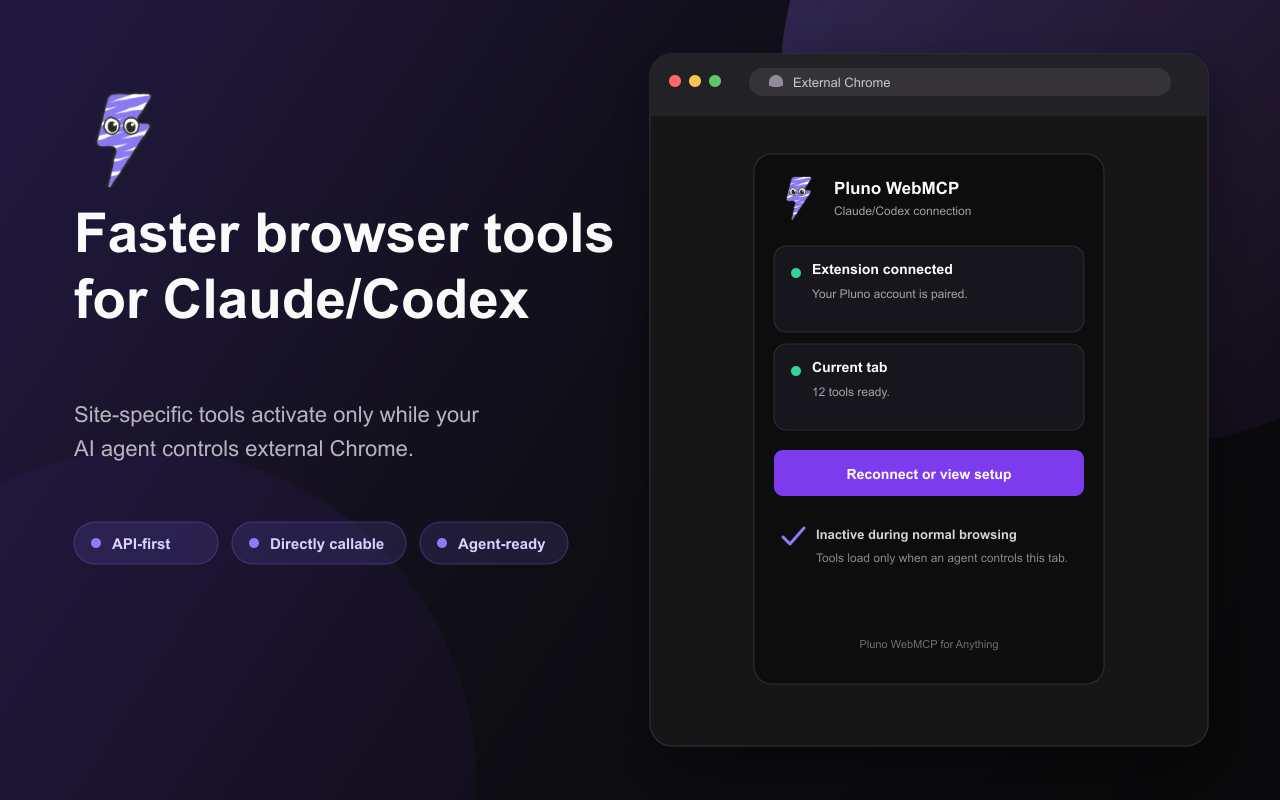
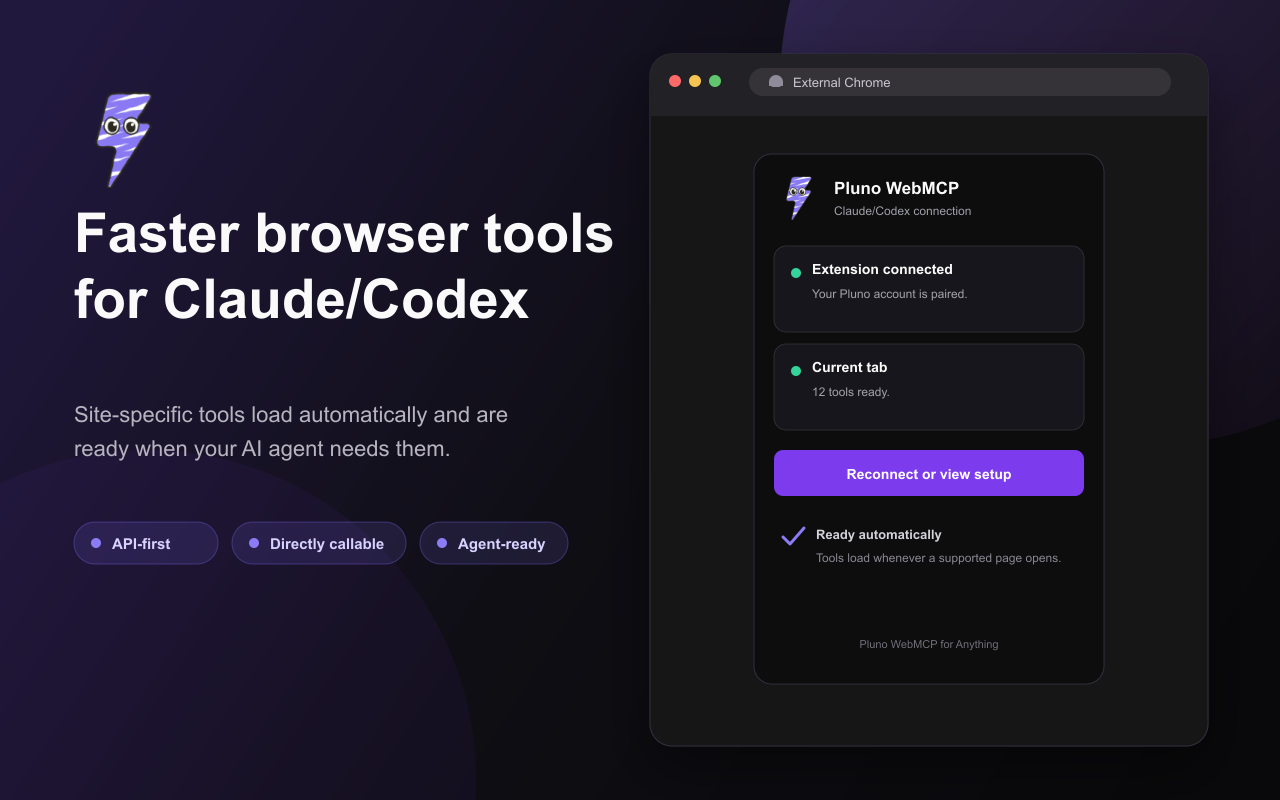
Inject WebMCP tools automatically

Changed region(s): [[0.0625, 0.5, 0.4062, 0.5938], [0.625, 0.6562, 0.8125, 0.7188]]

diff --git a/extension/service-worker.js b/extension/service-worker.js
@@ -6,17 +6,22 @@ const SETUP_ERROR = "Extension setup is incomplete.";
 const tabState = new Map();
 
 chrome.runtime.onInstalled.addListener(async ({ reason }) => {
-  if (reason !== "install") return;
-  await openSetup();
+  if (reason === "install") {
+    await openSetup();
+    return;
+  }
+  await activateOpenTabs();
 });
+
+chrome.runtime.onStartup.addListener(activateOpenTabs);
 
 chrome.alarms.onAlarm.addListener(async ({ name }) => {
   if (name === PAIRING_ALARM) await exchangePairing();
 });
 
 chrome.runtime.onMessage.addListener((message, sender, sendResponse) => {
-  if (message?.type === "WEBMCP_CHECK_DEBUGGER" && sender.tab?.id !== undefined) {
-    checkDebuggerActivity(sender.tab.id, message.pageUrl).then(sendResponse);
+  if (message?.type === "WEBMCP_ACTIVATE_PAGE" && sender.tab?.id !== undefined) {
+    activatePage(sender.tab.id, message.pageUrl).then(() => sendResponse({ activated: true }));
     return true;
   }
   if (message?.type === "WEBMCP_GET_STATUS") {
@@ -32,41 +37,21 @@ chrome.runtime.onMessage.addListener((message, sender, sendResponse) => {
 
 chrome.tabs.onRemoved.addListener((tabId) => tabState.delete(tabId));
 
-async function checkDebuggerActivity(tabId, pageUrl) {
+async function activatePage(tabId, pageUrl) {
   if (pageUrl.startsWith(`${API_ORIGIN}/webmcp/signup`)) await exchangePairing();
-  const targets = await chrome.debugger.getTargets();
-  const attachedTabIds = getAttachedTabIds(targets);
-  const attachedTabIdSet = new Set(attachedTabIds);
-  for (const [knownTabId, state] of tabState) {
-    if (!attachedTabIdSet.has(knownTabId)) {
-      tabState.set(knownTabId, { ...state, active: false });
-    }
-  }
-  await Promise.all(
-    attachedTabIds.map(async (attachedTabId) => {
-      const attachedPageUrl =
-        attachedTabId === tabId
-          ? pageUrl
-          : await chrome.tabs.get(attachedTabId).then((tab) => tab.url).catch(() => undefined);
-      if (attachedPageUrl) await activateAttachedTab(attachedTabId, attachedPageUrl);
-    }),
-  );
-  return { active: attachedTabIdSet.has(tabId) };
-}
-
-async function activateAttachedTab(tabId, pageUrl) {
   const previous = tabState.get(tabId) ?? {
-    active: false,
+    revision: 0,
     url: null,
     toolNames: [],
     loaded: false,
     injecting: false,
     lastError: null,
   };
+  const revision = previous.revision + 1;
   if (!isSupportedPageUrl(pageUrl)) {
     tabState.set(tabId, {
       ...previous,
-      active: true,
+      revision,
       url: pageUrl,
       toolNames: [],
       loaded: false,
@@ -75,18 +60,15 @@ async function activateAttachedTab(tabId, pageUrl) {
     });
     return;
   }
-  tabState.set(tabId, { ...previous, active: true, url: pageUrl });
+  tabState.set(tabId, { ...previous, revision, url: pageUrl, injecting: true, lastError: null });
 
-  if (
-    !previous.injecting &&
-    (previous.url !== pageUrl || !previous.loaded)
-  ) {
-    activateTab(tabId, pageUrl, previous.url !== pageUrl ? previous.toolNames : []).catch(async () => {
+  activateTab(tabId, pageUrl, previous.url !== pageUrl ? previous.toolNames : [], revision).catch(async () => {
+    if (tabState.get(tabId)?.revision === revision) {
       const current = tabState.get(tabId) ?? previous;
       tabState.set(tabId, { ...current, injecting: false, loaded: false, lastError: "Tool injection failed." });
       await logPageError(tabId, "Pluno WebMCP could not inject tools.");
-    });
-  }
+    }
+  });
 }
 
 function isSupportedPageUrl(pageUrl) {
@@ -102,38 +84,30 @@ function isLocalHostname(hostname) {
   return hostname === "::1" || /^::ffff:7f[0-9a-f]{2}:[0-9a-f]{1,4}$/.test(hostname);
 }
 
-function getAttachedTabIds(targets) {
-  return [
-    ...new Set(
-      targets
-        .filter((target) => target.attached && target.tabId !== undefined)
-        .map((target) => target.tabId),
-    ),
-  ];
-}
-
-async function activateTab(tabId, pageUrl, staleToolNames) {
-  const initial = tabState.get(tabId) ?? { active: true, url: pageUrl, toolNames: [] };
-  tabState.set(tabId, { ...initial, injecting: true, lastError: null });
+async function activateTab(tabId, pageUrl, staleToolNames, revision) {
   if (staleToolNames.length) await unregisterTools(tabId, staleToolNames);
+  if (tabState.get(tabId)?.revision !== revision) return;
   const { webmcpToken } = await chrome.storage.local.get("webmcpToken");
+  if (tabState.get(tabId)?.revision !== revision) return;
   if (!webmcpToken) {
     await logSetupError(tabId);
-    tabState.set(tabId, { ...initial, injecting: false, loaded: false, lastError: SETUP_ERROR });
+    updateCurrentTabState(tabId, revision, { injecting: false, loaded: false, lastError: SETUP_ERROR });
     return;
   }
-  const response = await fetch(`${API_ORIGIN}/api/webmcp/tools?page_url=${encodeURIComponent(pageUrl)}`, {
+  // Tool catalogs are origin-specific, so paths and query strings never need to leave the browser.
+  const pageOrigin = new URL(pageUrl).origin;
+  const response = await fetch(`${API_ORIGIN}/api/webmcp/tools?page_url=${encodeURIComponent(pageOrigin)}`, {
     headers: { Authorization: `Bearer ${webmcpToken}` },
   });
+  if (tabState.get(tabId)?.revision !== revision) return;
   if (response.status === 403) {
     await logPluginError(tabId);
-    tabState.set(tabId, { ...initial, injecting: false, loaded: false, lastError: PLUGIN_ERROR });
+    updateCurrentTabState(tabId, revision, { injecting: false, loaded: false, lastError: PLUGIN_ERROR });
     return;
   }
   if (!response.ok) {
     await logPageError(tabId, `Pluno WebMCP could not load tools (${response.status}).`);
-    tabState.set(tabId, {
-      ...initial,
+    updateCurrentTabState(tabId, revision, {
       injecting: false,
       loaded: false,
       lastError: `Could not load tools (${response.status}).`,
@@ -141,10 +115,9 @@ async function activateTab(tabId, pageUrl, staleToolNames) {
     return;
   }
   const { tools } = await response.json();
+  if (tabState.get(tabId)?.revision !== revision) return;
   const injected = await injectThroughScripting(tabId, tools);
-  const current = tabState.get(tabId) ?? { active: true, url: pageUrl };
-  tabState.set(tabId, {
-    ...current,
+  updateCurrentTabState(tabId, revision, {
     injecting: false,
     toolNames: injected ? tools.map((tool) => tool.name) : [],
     loaded: injected,
@@ -152,12 +125,28 @@ async function activateTab(tabId, pageUrl, staleToolNames) {
   });
 }
 
+function updateCurrentTabState(tabId, revision, updates) {
+  const current = tabState.get(tabId);
+  if (current?.revision !== revision) return;
+  tabState.set(tabId, { ...current, ...updates });
+}
+
+async function activateOpenTabs() {
+  const { webmcpToken } = await chrome.storage.local.get("webmcpToken");
+  if (!webmcpToken) return;
+  const tabs = await chrome.tabs.query({});
+  await Promise.all(
+    tabs.map(async (tab) => {
+      if (tab.id !== undefined && tab.url) await activatePage(tab.id, tab.url);
+    }),
+  );
+}
+
 async function getStatus(tabId) {
   const { webmcpToken } = await chrome.storage.local.get("webmcpToken");
   const state = typeof tabId === "number" ? tabState.get(tabId) : undefined;
   return {
     paired: Boolean(webmcpToken),
-    active: state?.active ?? false,
     injecting: state?.injecting ?? false,
     loaded: state?.loaded ?? false,
     toolCount: state?.toolNames?.length ?? 0,
@@ -319,6 +308,7 @@ async function exchangePairing() {
     await chrome.storage.local.set({ webmcpToken: result.token });
     await chrome.storage.local.remove("webmcpPairingSecret");
     await chrome.alarms.clear(PAIRING_ALARM);
+    await activateOpenTabs();
   }
   if (result.status === "expired") {
     await chrome.storage.local.remove("webmcpPairingSecret");
@@ -341,4 +331,4 @@ function randomSecret() {
   return btoa(String.fromCharCode(...bytes)).replaceAll("+", "-").replaceAll("/", "_").replaceAll("=", "");
 }
 
-export { checkDebuggerActivity, getAttachedTabIds, getStatus, installToolsInPage, isSupportedPageUrl, openSetup };
+export { activateOpenTabs, activatePage, getStatus, installToolsInPage, isSupportedPageUrl, openSetup };

diff --git a/extension/popup.js b/extension/popup.js
@@ -33,12 +33,9 @@ async function loadStatus() {
   } else if (status.injecting) {
     setDot(tabDot, "pending");
     tabDetail.textContent = "Loading tools…";
-  } else if (status.active) {
-    setDot(tabDot, "pending");
-    tabDetail.textContent = "Claude/Codex is using this tab; waiting for tools.";
   } else {
     setDot(tabDot, "pending");
-    tabDetail.textContent = "Ready when Claude/Codex controls this tab.";
+    tabDetail.textContent = "Tools load automatically on supported web pages.";
   }
 }
 

diff --git a/extension/popup.html b/extension/popup.html
@@ -32,7 +32,7 @@
         </div>
       </section>
       <button id="setup-button" type="button">Open setup</button>
-      <p class="footnote">Tools activate only while Claude/Codex controls this tab in external Chrome.</p>
+      <p class="footnote">Tools load automatically on supported pages in external Chrome.</p>
     </main>
     <script src="popup.js"></script>
   </body>

diff --git a/extension/page-activator.js b/extension/page-activator.js
@@ -1,0 +1,4 @@
+void chrome.runtime.sendMessage({
+  type: "WEBMCP_ACTIVATE_PAGE",
+  pageUrl: location.href,
+}).catch(() => undefined);

diff --git a/CHROME_WEB_STORE_SUBMISSION.md b/CHROME_WEB_STORE_SUBMISSION.md
@@ -6,40 +6,39 @@ Name: Pluno WebMCP for Anything
 
 Category: Developer Tools
 
-Summary: Gives Claude/Codex fast, reliable, API-first tools while it controls external Chrome.
+Summary: Gives Claude/Codex fast, reliable, API-first tools in external Chrome.
 
 Detailed description:
 
-Pluno WebMCP for Anything connects Claude/Codex to purpose-built browser tools in external Chrome. When an AI agent attaches a debugger to a tab, the extension loads reviewed tools for that website and exposes them through native WebMCP when available and through the directly callable Pluno registry everywhere else. Debugger-attached background tabs are supported; unrelated tabs remain untouched.
+Pluno WebMCP for Anything connects Claude/Codex to purpose-built browser tools in external Chrome. The extension automatically loads reviewed tools for each supported website and exposes them through native WebMCP when available and through the directly callable Pluno registry everywhere else. Background tabs are supported, so tools are ready when an AI agent needs them.
 
-The extension stays inactive during normal browsing. It only requests and injects tools while Chrome reports that Claude/Codex has attached a debugger to that specific tab. The popup shows whether setup is complete and whether tools are active for the current tab.
+The extension sends only the current site origin—not its path, query string, or page content—to Pluno to select the matching tool catalog. The popup shows whether setup is complete and how many tools are ready for the current tab.
 
 Setup requires one Pluno sign-in, the Chrome extension, and the companion Claude/Codex integration.
 
 ## Single purpose
 
-Expose reviewed, site-specific browser tools while Claude/Codex controls the user&apos;s external Chrome tab.
+Expose reviewed, site-specific browser tools to Claude/Codex in the user&apos;s external Chrome tabs.
 
 ## Permission justifications
 
-- `debugger`: Detects which tabs Claude/Codex is actively controlling, including background tabs. The extension does not attach its own debugger or interfere with the controlling agent&apos;s connection.
-- `scripting`: Injects the selected tool catalog into Claude/Codex-controlled tabs, removes stale tools after navigation, and displays setup or connection errors without exposing the Pluno bearer token.
+- `scripting`: Injects the selected tool catalog into supported tabs, removes stale tools after navigation, and displays setup or connection errors without exposing the Pluno bearer token.
 - `storage`: Stores the extension&apos;s Pluno pairing secret and bearer token locally.
 - `tabs`: Opens onboarding, identifies the active tab for the status popup, and clears transient state when a tab closes.
 - `alarms`: Checks the short-lived pairing flow in the background until onboarding completes or expires.
-- `<all_urls>` host access: The product&apos;s single purpose is to provide origin-specific tools on any website the user asks Claude/Codex to operate. Tool activation remains gated on an attached debugger.
+- `<all_urls>` host access: The product&apos;s single purpose is to make origin-specific tools available on websites the user may ask Claude/Codex to operate. The extension sends only the site origin to select tools and never sends the page path, query string, or content during discovery.
 
 ## Remote code declaration
 
 Answer: Yes.
 
-Justification: The extension downloads reviewed, origin-specific tool definitions from Pluno and exposes them only inside the website tab after the user asks Claude/Codex to control that tab. The extension itself contains the complete activation, authentication, registry, status, and safety logic; remote definitions are never executed in the extension service worker or popup. Tool execution is initiated by Claude/Codex in the controlled website tab. On pages whose Content Security Policy blocks ordinary evaluation, Claude/Codex may repeat the same injected registry call through the debugger connection it already owns.
+Justification: The extension downloads reviewed, origin-specific tool definitions from Pluno and exposes them only inside the matching website tab. The extension itself contains the complete activation, authentication, registry, status, and safety logic; remote definitions are never executed in the extension service worker or popup. Tool execution is initiated by Claude/Codex in the website tab. On pages whose Content Security Policy blocks ordinary evaluation, Claude/Codex may repeat the same injected registry call through the browser debugger connection it already owns.
 
 ## Data disclosures
 
 Disclose these categories:
 
-- Web history: a debugger-attached tab&apos;s current page URL is sent to `https://app.pluno.ai` only while Claude/Codex controls that tab, so Pluno can select the origin-specific tool catalog.
+- Web history: the current site origin is sent to `https://app.pluno.ai` when a supported page opens so Pluno can select the origin-specific tool catalog. Paths, query strings, and page content are not included.
 - Authentication information: a narrow Pluno bearer token is stored in `chrome.storage.local` and sent only to `https://app.pluno.ai` over HTTPS.
 - Website content: invoked tools may read or modify the current website as required by the user&apos;s Claude/Codex task. That website data is returned to the local page/Claude/Codex flow and is not automatically uploaded to Pluno by the extension.
 
@@ -57,7 +56,7 @@ Terms URL: `https://pluno.ai/terms`
 4. Ask Claude/Codex to use external Chrome on a normal HTTPS page.
 5. Open the extension popup. It will show the paired account and the number of tools available for the current tab, or a clear pending/error state.
 
-Normal browsing without an attached Claude/Codex debugger causes no tool request or injection.
+Tools load automatically on supported pages; Claude/Codex does not need to attach a debugger for discovery or normal execution.
 
 ## Assets
 

diff --git a/README.md b/README.md
@@ -1,6 +1,6 @@
 # Pluno WebMCP for Anything
 
-A Chrome extension and Claude/Codex integration that loads origin-specific, directly callable browser tools while Claude/Codex is actively debugging external Chrome, then feeds privacy-safe improvements and general feedback back to Pluno.
+A Chrome extension and Claude/Codex integration that automatically loads origin-specific, directly callable browser tools in external Chrome, then feeds privacy-safe improvements and general feedback back to Pluno.
 
 ## Connect Claude Code
 
@@ -35,15 +35,15 @@ Until a Chrome Web Store package is available:
 
 Both the extension and the Claude/Codex integration must be connected before tools are injected.
 
-Tool injection follows debugger attachment per tab, including background tabs. Switching away from the tab Claude/Codex is controlling does not prevent that tab from receiving its origin-specific tools, while unrelated tabs remain untouched.
+The extension injects origin-specific tools automatically on every supported page, including background tabs. Injection does not depend on Claude/Codex controlling the tab or attaching a debugger.
 
-No Chrome flag is required. The extension uses debugger state only to identify Claude/Codex-controlled tabs, then injects without competing for the existing debugger connection. It always exposes tools in `globalThis.__PLUNO_WEBMCP_TOOLS__`; the array provides `await globalThis.__PLUNO_WEBMCP_TOOLS__.getTools()` with the native discovery shape and `globalThis.__PLUNO_WEBMCP_TOOLS__.getTool(name)` for exact-name selection. When Chrome also provides the native WebMCP API, the extension registers the same tools there automatically. If strict page CSP blocks normal execution, Claude/Codex repeats the same registry call through its debugger rather than rewriting the implementation.
+It always exposes tools in `globalThis.__PLUNO_WEBMCP_TOOLS__`; the array provides `await globalThis.__PLUNO_WEBMCP_TOOLS__.getTools()` with the native discovery shape and `globalThis.__PLUNO_WEBMCP_TOOLS__.getTool(name)` for exact-name selection. When Chrome also provides the native WebMCP API, the extension registers the same tools there automatically. If strict page CSP blocks normal execution, Claude/Codex repeats the same registry call through its own browser debugger connection rather than rewriting the implementation.
 
 The extension cannot run in built-in agent browsers that do not support Chrome extensions. Use Claude/Codex with external Chrome to get the injected Pluno tools; they make supported browser operations faster, more reliable, and more token-efficient than UI automation.
 
 ## Privacy and security
 
-The bearer token stays in extension storage and is never exposed to page JavaScript. The extension injects inert tool definitions through Chrome's scripting API; remote tool code is evaluated and cached only on the first direct invocation. Improvement suggestions and feedback must never contain personal data, credentials, cookies, authorization headers, or private raw payloads.
+The bearer token stays in extension storage and is never exposed to page JavaScript. To select an origin-specific catalog, the extension sends only the current site origin—never its path, query string, or page content—to Pluno. The extension injects inert tool definitions through Chrome's scripting API; remote tool code is evaluated and cached only on the first direct invocation. Improvement suggestions and feedback must never contain personal data, credentials, cookies, authorization headers, or private raw payloads.
 
 ## License
 
